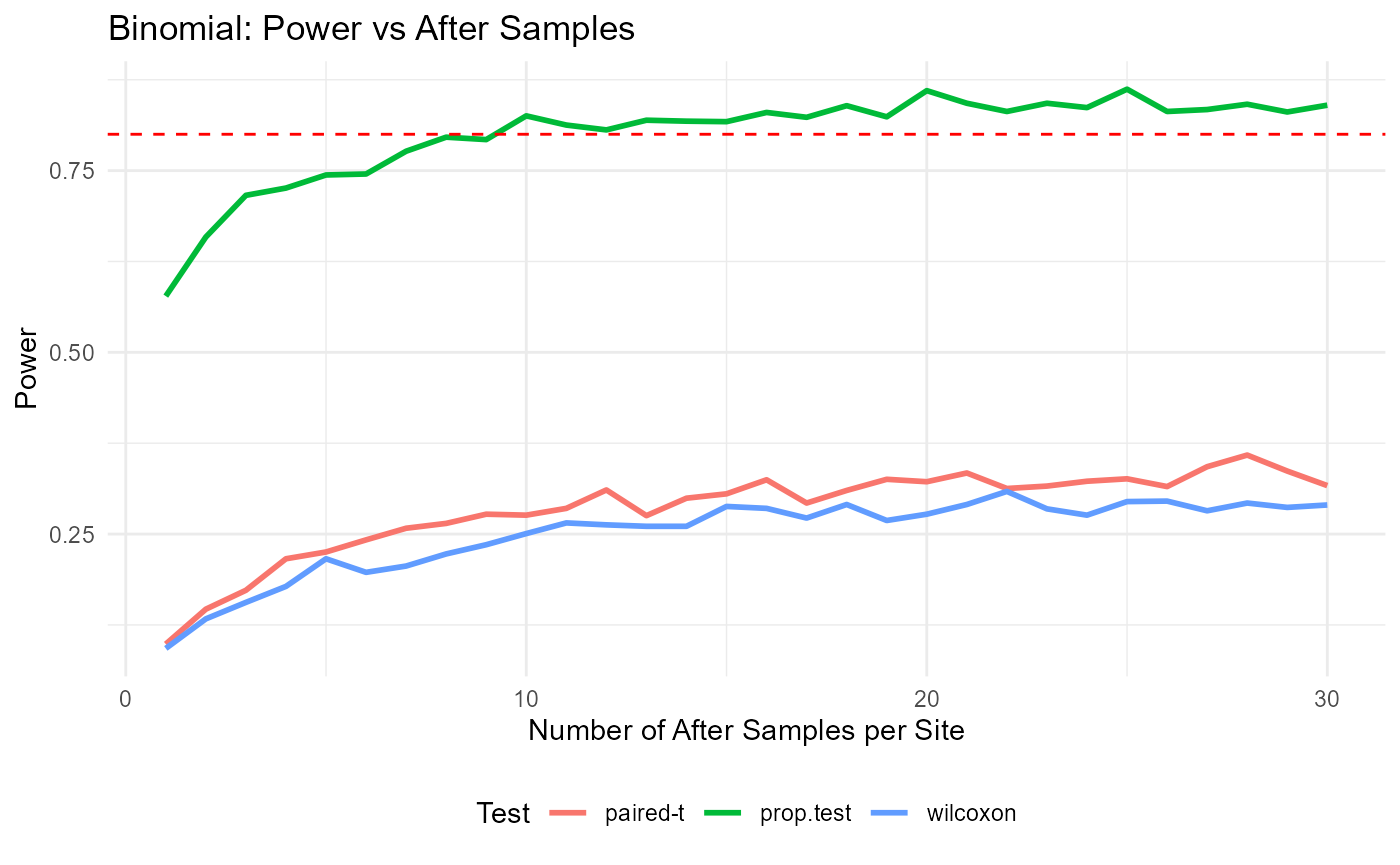
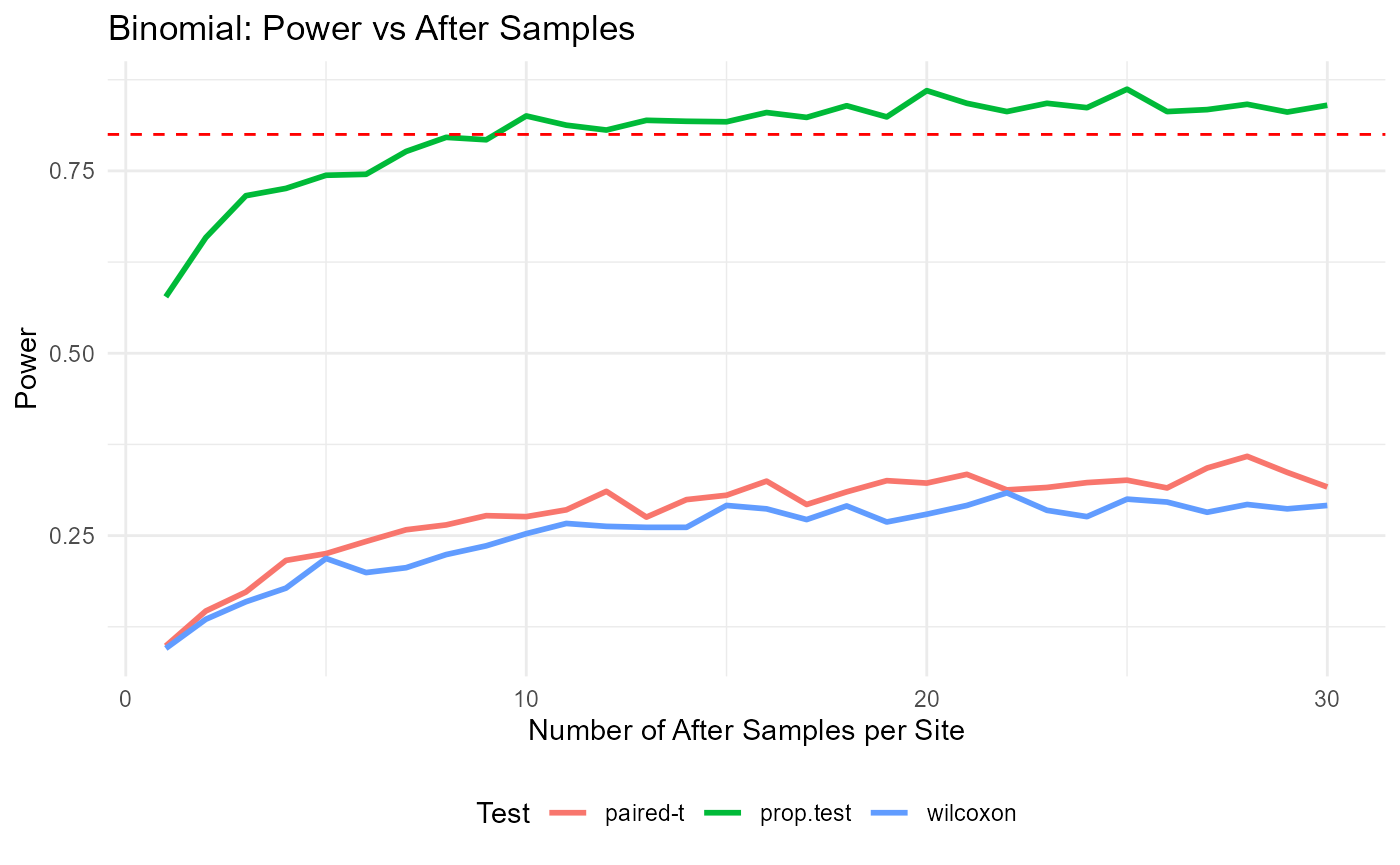
update docs

diff --git a/docs/articles/NonNormalDistributionsAndTests.html b/docs/articles/NonNormalDistributionsAndTests.html
@@ -61,7 +61,7 @@
                         <h4 data-toc-skip class="author">Beth
 Babcock</h4>
             
-            <h4 data-toc-skip class="date">2026-04-06</h4>
+            <h4 data-toc-skip class="date">2026-05-14</h4>
       
 
       <div class="d-none name"><code>NonNormalDistributionsAndTests.rmd</code></div>
@@ -121,7 +121,7 @@ supported distributions (<code>normal</code>, <code>nbinom</code>,
 <span><span class="op">)</span></span>
 <span></span>
 <span><span class="fu"><a href="https://ggplot2.tidyverse.org/reference/ggplot.html" class="external-link">ggplot</a></span><span class="op">(</span><span class="va">normal_plot_df</span>, <span class="fu"><a href="https://ggplot2.tidyverse.org/reference/aes.html" class="external-link">aes</a></span><span class="op">(</span>x <span class="op">=</span> <span class="va">n_after</span>, y <span class="op">=</span> <span class="va">power</span>, color <span class="op">=</span> <span class="va">method</span><span class="op">)</span><span class="op">)</span> <span class="op">+</span></span>
-<span>  <span class="fu"><a href="https://ggplot2.tidyverse.org/reference/geom_path.html" class="external-link">geom_line</a></span><span class="op">(</span>size <span class="op">=</span> <span class="fl">1</span><span class="op">)</span> <span class="op">+</span></span>
+<span>  <span class="fu"><a href="https://ggplot2.tidyverse.org/reference/geom_path.html" class="external-link">geom_line</a></span><span class="op">(</span>linewidth <span class="op">=</span> <span class="fl">1</span><span class="op">)</span> <span class="op">+</span></span>
 <span>  <span class="fu"><a href="https://ggplot2.tidyverse.org/reference/geom_abline.html" class="external-link">geom_hline</a></span><span class="op">(</span>yintercept <span class="op">=</span> <span class="fl">0.8</span>, linetype <span class="op">=</span> <span class="st">"dashed"</span>, color <span class="op">=</span> <span class="st">"red"</span><span class="op">)</span> <span class="op">+</span></span>
 <span>  <span class="fu"><a href="https://ggplot2.tidyverse.org/reference/labs.html" class="external-link">labs</a></span><span class="op">(</span></span>
 <span>    title <span class="op">=</span> <span class="st">"Normal: Power vs After Samples"</span>,</span>
@@ -162,13 +162,27 @@ supported distributions (<code>normal</code>, <code>nbinom</code>,
 <span>  nbinom_disp <span class="op">=</span> <span class="va">nbinom_disp</span></span>
 <span><span class="op">)</span></span>
 <span></span>
+<span><span class="co">#This is a test based on GLMM. It is slow so use few sims</span></span>
+<span><span class="va">res_nb_g</span> <span class="op">&lt;-</span> <span class="fu"><a href="../reference/find_n_after.html">find_n_after</a></span><span class="op">(</span></span>
+<span>  S <span class="op">=</span> <span class="va">S_demo</span>, nB <span class="op">=</span> <span class="va">nB_demo</span>,</span>
+<span>  delta <span class="op">=</span> <span class="va">delta_target_nb</span>, sd_w <span class="op">=</span> <span class="va">sd_w</span>, sd_d <span class="op">=</span> <span class="va">sd_d</span>,</span>
+<span>  target_power <span class="op">=</span> <span class="fl">0.8</span>, alpha <span class="op">=</span> <span class="va">alpha</span>, n_grid <span class="op">=</span> <span class="va">n_grid</span>,</span>
+<span>  nsim <span class="op">=</span> <span class="fl">100</span>, seed <span class="op">=</span> <span class="fl">4</span>,</span>
+<span>  distribution <span class="op">=</span> <span class="st">"nbinom"</span>,</span>
+<span>  useTest <span class="op">=</span> <span class="st">"GLMM-NB"</span>,</span>
+<span>  nbinom_mu <span class="op">=</span> <span class="va">nbinom_mu</span>,</span>
+<span>  nbinom_disp <span class="op">=</span> <span class="va">nbinom_disp</span></span>
+<span><span class="op">)</span></span>
+<span></span>
+<span></span>
 <span><span class="va">nb_plot_df</span> <span class="op">&lt;-</span> <span class="fu"><a href="https://dplyr.tidyverse.org/reference/bind_rows.html" class="external-link">bind_rows</a></span><span class="op">(</span></span>
 <span>  <span class="va">res_nb_t</span><span class="op">$</span><span class="va">curve</span> <span class="op"><a href="https://magrittr.tidyverse.org/reference/pipe.html" class="external-link">%&gt;%</a></span> <span class="fu"><a href="https://dplyr.tidyverse.org/reference/mutate.html" class="external-link">mutate</a></span><span class="op">(</span>method <span class="op">=</span> <span class="st">"paired-t"</span><span class="op">)</span>,</span>
-<span>  <span class="va">res_nb_w</span><span class="op">$</span><span class="va">curve</span> <span class="op"><a href="https://magrittr.tidyverse.org/reference/pipe.html" class="external-link">%&gt;%</a></span> <span class="fu"><a href="https://dplyr.tidyverse.org/reference/mutate.html" class="external-link">mutate</a></span><span class="op">(</span>method <span class="op">=</span> <span class="st">"wilcoxon"</span><span class="op">)</span></span>
+<span>  <span class="va">res_nb_w</span><span class="op">$</span><span class="va">curve</span> <span class="op"><a href="https://magrittr.tidyverse.org/reference/pipe.html" class="external-link">%&gt;%</a></span> <span class="fu"><a href="https://dplyr.tidyverse.org/reference/mutate.html" class="external-link">mutate</a></span><span class="op">(</span>method <span class="op">=</span> <span class="st">"wilcoxon"</span><span class="op">)</span>,</span>
+<span>  <span class="va">res_nb_g</span><span class="op">$</span><span class="va">curve</span> <span class="op"><a href="https://magrittr.tidyverse.org/reference/pipe.html" class="external-link">%&gt;%</a></span> <span class="fu"><a href="https://dplyr.tidyverse.org/reference/mutate.html" class="external-link">mutate</a></span><span class="op">(</span>method <span class="op">=</span> <span class="st">"GLMM-NB"</span><span class="op">)</span></span>
 <span><span class="op">)</span></span>
 <span></span>
 <span><span class="fu"><a href="https://ggplot2.tidyverse.org/reference/ggplot.html" class="external-link">ggplot</a></span><span class="op">(</span><span class="va">nb_plot_df</span>, <span class="fu"><a href="https://ggplot2.tidyverse.org/reference/aes.html" class="external-link">aes</a></span><span class="op">(</span>x <span class="op">=</span> <span class="va">n_after</span>, y <span class="op">=</span> <span class="va">power</span>, color <span class="op">=</span> <span class="va">method</span><span class="op">)</span><span class="op">)</span> <span class="op">+</span></span>
-<span>  <span class="fu"><a href="https://ggplot2.tidyverse.org/reference/geom_path.html" class="external-link">geom_line</a></span><span class="op">(</span>size <span class="op">=</span> <span class="fl">1</span><span class="op">)</span> <span class="op">+</span></span>
+<span>  <span class="fu"><a href="https://ggplot2.tidyverse.org/reference/geom_path.html" class="external-link">geom_line</a></span><span class="op">(</span>linewidth <span class="op">=</span> <span class="fl">1</span><span class="op">)</span> <span class="op">+</span></span>
 <span>  <span class="fu"><a href="https://ggplot2.tidyverse.org/reference/geom_abline.html" class="external-link">geom_hline</a></span><span class="op">(</span>yintercept <span class="op">=</span> <span class="fl">0.8</span>, linetype <span class="op">=</span> <span class="st">"dashed"</span>, color <span class="op">=</span> <span class="st">"red"</span><span class="op">)</span> <span class="op">+</span></span>
 <span>  <span class="fu"><a href="https://ggplot2.tidyverse.org/reference/labs.html" class="external-link">labs</a></span><span class="op">(</span></span>
 <span>    title <span class="op">=</span> <span class="st">"Negative Binomial: Power vs After Samples"</span>,</span>
@@ -227,7 +241,7 @@ supported distributions (<code>normal</code>, <code>nbinom</code>,
 <span><span class="op">)</span></span>
 <span></span>
 <span><span class="fu"><a href="https://ggplot2.tidyverse.org/reference/ggplot.html" class="external-link">ggplot</a></span><span class="op">(</span><span class="va">bin_plot_df</span>, <span class="fu"><a href="https://ggplot2.tidyverse.org/reference/aes.html" class="external-link">aes</a></span><span class="op">(</span>x <span class="op">=</span> <span class="va">n_after</span>, y <span class="op">=</span> <span class="va">power</span>, color <span class="op">=</span> <span class="va">method</span><span class="op">)</span><span class="op">)</span> <span class="op">+</span></span>
-<span>  <span class="fu"><a href="https://ggplot2.tidyverse.org/reference/geom_path.html" class="external-link">geom_line</a></span><span class="op">(</span>size <span class="op">=</span> <span class="fl">1</span><span class="op">)</span> <span class="op">+</span></span>
+<span>  <span class="fu"><a href="https://ggplot2.tidyverse.org/reference/geom_path.html" class="external-link">geom_line</a></span><span class="op">(</span>linewidth <span class="op">=</span> <span class="fl">1</span><span class="op">)</span> <span class="op">+</span></span>
 <span>  <span class="fu"><a href="https://ggplot2.tidyverse.org/reference/geom_abline.html" class="external-link">geom_hline</a></span><span class="op">(</span>yintercept <span class="op">=</span> <span class="fl">0.8</span>, linetype <span class="op">=</span> <span class="st">"dashed"</span>, color <span class="op">=</span> <span class="st">"red"</span><span class="op">)</span> <span class="op">+</span></span>
 <span>  <span class="fu"><a href="https://ggplot2.tidyverse.org/reference/labs.html" class="external-link">labs</a></span><span class="op">(</span></span>
 <span>    title <span class="op">=</span> <span class="st">"Binomial: Power vs After Samples"</span>,</span>

diff --git a/docs/reference/find_min_sites.html b/docs/reference/find_min_sites.html
@@ -1,7 +1,11 @@
 <!DOCTYPE html>
 <!-- Generated by pkgdown: do not edit by hand --><html lang="en"><head><meta http-equiv="Content-Type" content="text/html; charset=UTF-8"><meta charset="utf-8"><meta http-equiv="X-UA-Compatible" content="IE=edge"><meta name="viewport" content="width=device-width, initial-scale=1, shrink-to-fit=no"><title>find_min_sites — find_min_sites • PowerAfterChange</title><script src="../deps/jquery-3.6.0/jquery-3.6.0.min.js"></script><meta name="viewport" content="width=device-width, initial-scale=1, shrink-to-fit=no"><link href="../deps/bootstrap-5.3.1/bootstrap.min.css" rel="stylesheet"><script src="../deps/bootstrap-5.3.1/bootstrap.bundle.min.js"></script><link href="../deps/font-awesome-6.5.2/css/all.min.css" rel="stylesheet"><link href="../deps/font-awesome-6.5.2/css/v4-shims.min.css" rel="stylesheet"><script src="../deps/headroom-0.11.0/headroom.min.js"></script><script src="../deps/headroom-0.11.0/jQuery.headroom.min.js"></script><script src="../deps/bootstrap-toc-1.0.1/bootstrap-toc.min.js"></script><script src="../deps/clipboard.js-2.0.11/clipboard.min.js"></script><script src="../deps/search-1.0.0/autocomplete.jquery.min.js"></script><script src="../deps/search-1.0.0/fuse.min.js"></script><script src="../deps/search-1.0.0/mark.min.js"></script><!-- pkgdown --><script src="../pkgdown.js"></script><meta property="og:title" content="find_min_sites — find_min_sites"><meta name="description" content="Function to find the minimum number of sites needed to achieve target power from
-a paired t test on the means across observations at sites before and after a changepoint."><meta property="og:description" content="Function to find the minimum number of sites needed to achieve target power from
-a paired t test on the means across observations at sites before and after a changepoint."></head><body>
+a paired t test on the means across observations at sites before and after a changepoint,
+or equivalent Wilcoxon or proportion test for presence/absence data, or normal
+test on the before-after coefficient in a negative binomial GLMM."><meta property="og:description" content="Function to find the minimum number of sites needed to achieve target power from
+a paired t test on the means across observations at sites before and after a changepoint,
+or equivalent Wilcoxon or proportion test for presence/absence data, or normal
+test on the before-after coefficient in a negative binomial GLMM."></head><body>
     <a href="#main" class="visually-hidden-focusable">Skip to contents</a>
 
 
@@ -42,7 +46,9 @@ a paired t test on the means across observations at sites before and after a cha
 
     <div class="ref-description section level2">
     <p>Function to find the minimum number of sites needed to achieve target power from
-a paired t test on the means across observations at sites before and after a changepoint.</p>
+a paired t test on the means across observations at sites before and after a changepoint,
+or equivalent Wilcoxon or proportion test for presence/absence data, or normal
+test on the before-after coefficient in a negative binomial GLMM.</p>
     </div>
 
     <div class="section level2">
@@ -59,7 +65,7 @@ a paired t test on the means across observations at sites before and after a cha
 <span>  nsim <span class="op">=</span> <span class="fl">2000</span>,</span>
 <span>  seed <span class="op">=</span> <span class="fl">1</span>,</span>
 <span>  distribution <span class="op">=</span> <span class="fu"><a href="https://rdrr.io/r/base/c.html" class="external-link">c</a></span><span class="op">(</span><span class="st">"normal"</span>, <span class="st">"nbinom"</span>, <span class="st">"binomial"</span><span class="op">)</span>,</span>
-<span>  useTest <span class="op">=</span> <span class="fu"><a href="https://rdrr.io/r/base/c.html" class="external-link">c</a></span><span class="op">(</span><span class="st">"paired-t"</span>, <span class="st">"wilcoxon"</span>, <span class="st">"prop.test"</span><span class="op">)</span>,</span>
+<span>  useTest <span class="op">=</span> <span class="fu"><a href="https://rdrr.io/r/base/c.html" class="external-link">c</a></span><span class="op">(</span><span class="st">"paired-t"</span>, <span class="st">"wilcoxon"</span>, <span class="st">"prop.test"</span>, <span class="st">"GLMM-NB"</span><span class="op">)</span>,</span>
 <span>  nbinom_mu <span class="op">=</span> <span class="cn">NULL</span>,</span>
 <span>  nbinom_disp <span class="op">=</span> <span class="cn">NULL</span>,</span>
 <span>  binomial_size <span class="op">=</span> <span class="cn">NULL</span>,</span>
@@ -117,7 +123,7 @@ a paired t test on the means across observations at sites before and after a cha
 
 
 <dt id="arg-usetest">useTest<a class="anchor" aria-label="anchor" href="#arg-usetest"></a></dt>
-<dd><p>Which test to use. One of "paired-t", "wilcoxon", or "prop.test".</p></dd>
+<dd><p>Which test to use. One of "paired-t", "wilcoxon", "prop.test", "GLMM-NB".</p></dd>
 
 
 <dt id="arg-nbinom-mu">nbinom_mu<a class="anchor" aria-label="anchor" href="#arg-nbinom-mu"></a></dt>

diff --git a/docs/reference/power_for_n_after.html b/docs/reference/power_for_n_after.html
@@ -1,7 +1,13 @@
 <!DOCTYPE html>
 <!-- Generated by pkgdown: do not edit by hand --><html lang="en"><head><meta http-equiv="Content-Type" content="text/html; charset=UTF-8"><meta charset="utf-8"><meta http-equiv="X-UA-Compatible" content="IE=edge"><meta name="viewport" content="width=device-width, initial-scale=1, shrink-to-fit=no"><title>power_for_n_after — power_for_n_after • PowerAfterChange</title><script src="../deps/jquery-3.6.0/jquery-3.6.0.min.js"></script><meta name="viewport" content="width=device-width, initial-scale=1, shrink-to-fit=no"><link href="../deps/bootstrap-5.3.1/bootstrap.min.css" rel="stylesheet"><script src="../deps/bootstrap-5.3.1/bootstrap.bundle.min.js"></script><link href="../deps/font-awesome-6.5.2/css/all.min.css" rel="stylesheet"><link href="../deps/font-awesome-6.5.2/css/v4-shims.min.css" rel="stylesheet"><script src="../deps/headroom-0.11.0/headroom.min.js"></script><script src="../deps/headroom-0.11.0/jQuery.headroom.min.js"></script><script src="../deps/bootstrap-toc-1.0.1/bootstrap-toc.min.js"></script><script src="../deps/clipboard.js-2.0.11/clipboard.min.js"></script><script src="../deps/search-1.0.0/autocomplete.jquery.min.js"></script><script src="../deps/search-1.0.0/fuse.min.js"></script><script src="../deps/search-1.0.0/mark.min.js"></script><!-- pkgdown --><script src="../pkgdown.js"></script><meta property="og:title" content="power_for_n_after — power_for_n_after"><meta name="description" content="Estimate power for a paired t-test on the average of a given number of
-measurements at a fixed number of sites before and after a changepoint."><meta property="og:description" content="Estimate power for a paired t-test on the average of a given number of
-measurements at a fixed number of sites before and after a changepoint."></head><body>
+measurements at a fixed number of sites before and after a changepoint,
+or for an equivalent wilcoxon, or a proportion test if the data are presence/
+absence, or a normal test on the coefficient of a negative binomial GLMM
+before-after coefficient."><meta property="og:description" content="Estimate power for a paired t-test on the average of a given number of
+measurements at a fixed number of sites before and after a changepoint,
+or for an equivalent wilcoxon, or a proportion test if the data are presence/
+absence, or a normal test on the coefficient of a negative binomial GLMM
+before-after coefficient."></head><body>
     <a href="#main" class="visually-hidden-focusable">Skip to contents</a>
 
 
@@ -42,7 +48,10 @@ measurements at a fixed number of sites before and after a changepoint."></head>
 
     <div class="ref-description section level2">
     <p>Estimate power for a paired t-test on the average of a given number of
-measurements at a fixed number of sites before and after a changepoint.</p>
+measurements at a fixed number of sites before and after a changepoint,
+or for an equivalent wilcoxon, or a proportion test if the data are presence/
+absence, or a normal test on the coefficient of a negative binomial GLMM
+before-after coefficient.</p>
     </div>
 
     <div class="section level2">
@@ -58,7 +67,7 @@ measurements at a fixed number of sites before and after a changepoint.</p>
 <span>  nsim <span class="op">=</span> <span class="fl">2000</span>,</span>
 <span>  seed <span class="op">=</span> <span class="fl">1</span>,</span>
 <span>  distribution <span class="op">=</span> <span class="fu"><a href="https://rdrr.io/r/base/c.html" class="external-link">c</a></span><span class="op">(</span><span class="st">"normal"</span>, <span class="st">"nbinom"</span>, <span class="st">"binomial"</span><span class="op">)</span>,</span>
-<span>  useTest <span class="op">=</span> <span class="fu"><a href="https://rdrr.io/r/base/c.html" class="external-link">c</a></span><span class="op">(</span><span class="st">"paired-t"</span>, <span class="st">"wilcoxon"</span>, <span class="st">"prop.test"</span><span class="op">)</span>,</span>
+<span>  useTest <span class="op">=</span> <span class="fu"><a href="https://rdrr.io/r/base/c.html" class="external-link">c</a></span><span class="op">(</span><span class="st">"paired-t"</span>, <span class="st">"wilcoxon"</span>, <span class="st">"prop.test"</span>, <span class="st">"GLMM-NB"</span><span class="op">)</span>,</span>
 <span>  nbinom_mu <span class="op">=</span> <span class="cn">NULL</span>,</span>
 <span>  nbinom_disp <span class="op">=</span> <span class="cn">NULL</span>,</span>
 <span>  binomial_size <span class="op">=</span> <span class="cn">NULL</span>,</span>
@@ -112,7 +121,7 @@ measurements at a fixed number of sites before and after a changepoint.</p>
 
 
 <dt id="arg-usetest">useTest<a class="anchor" aria-label="anchor" href="#arg-usetest"></a></dt>
-<dd><p>Which test to use. One of "paired-t", "wilcoxon", or "prop.test".</p></dd>
+<dd><p>Which test to use. One of "paired-t", "wilcoxon", "prop.test", or ,"GLMM-NB2".</p></dd>
 
 
 <dt id="arg-nbinom-mu">nbinom_mu<a class="anchor" aria-label="anchor" href="#arg-nbinom-mu"></a></dt>

diff --git a/docs/articles/Sqrt transform.html b/docs/articles/Sqrt transform.html
@@ -61,7 +61,7 @@
                         <h4 data-toc-skip class="author">Beth
 Babcock</h4>
             
-            <h4 data-toc-skip class="date">2026-04-06</h4>
+            <h4 data-toc-skip class="date">2026-05-14</h4>
       
 
       <div class="d-none name"><code>Sqrt transform.Rmd</code></div>
@@ -103,27 +103,12 @@ Babcock</h4>
 <span>  typeTransform <span class="op">=</span> <span class="st">"sqrt"</span>,</span>
 <span>  addValue <span class="op">=</span> <span class="fl">0.5</span></span>
 <span><span class="op">)</span></span></code></pre></div>
-<pre><code><span><span class="co">## Warning: There were 2 warnings in `mutate()`.</span></span>
-<span><span class="co">## The first warning was:</span></span>
-<span><span class="co">## <span style="color: #00BBBB;">ℹ</span> In argument: `grand_asinmean = if_else(asinTransform, mean(asin(sqrt(y))),</span></span>
-<span><span class="co">##   NA_real_)`.</span></span>
-<span><span class="co">## Caused by warning in `asin()`:</span></span>
-<span><span class="co">## <span style="color: #BBBB00;">!</span> NaNs produced</span></span>
-<span><span class="co">## <span style="color: #00BBBB;">ℹ</span> Run `dplyr::last_dplyr_warnings()` to see the 1 remaining warning.</span></span></code></pre>
-<pre><code><span><span class="co">## Warning: There were 24 warnings in `summarize()`.</span></span>
-<span><span class="co">## The first warning was:</span></span>
-<span><span class="co">## <span style="color: #00BBBB;">ℹ</span> In argument: `site_asinmean = if_else(asinTransform, mean(asin(sqrt(y))),</span></span>
-<span><span class="co">##   NA_real_)`.</span></span>
-<span><span class="co">## <span style="color: #00BBBB;">ℹ</span> In group 1: `site = 1`.</span></span>
-<span><span class="co">## Caused by warning in `asin()`:</span></span>
-<span><span class="co">## <span style="color: #BBBB00;">!</span> NaNs produced</span></span>
-<span><span class="co">## <span style="color: #00BBBB;">ℹ</span> Run `dplyr::last_dplyr_warnings()` to see the 23 remaining warnings.</span></span></code></pre>
 <p>Extract inputs</p>
-<div class="sourceCode" id="cb6"><pre class="downlit sourceCode r">
+<div class="sourceCode" id="cb4"><pre class="downlit sourceCode r">
 <code class="sourceCode R"><span><span class="va">baseline_mean</span> <span class="op">&lt;-</span> <span class="va">base_summary</span><span class="op">$</span><span class="va">grand_mean</span></span>
 <span><span class="va">sd_within_sqrt</span> <span class="op">&lt;-</span> <span class="va">base_summary</span><span class="op">$</span><span class="va">sqrtsd_within</span></span></code></pre></div>
 <p>Compute power for a 30% change</p>
-<div class="sourceCode" id="cb7"><pre class="downlit sourceCode r">
+<div class="sourceCode" id="cb5"><pre class="downlit sourceCode r">
 <code class="sourceCode R"><span><span class="va">power_30pct</span> <span class="op">&lt;-</span> <span class="fu"><a href="../reference/power_for_percent_change.html">power_for_percent_change</a></span><span class="op">(</span></span>
 <span>  percent_change <span class="op">=</span> <span class="fl">30</span>,</span>
 <span>  baseline_mean <span class="op">=</span> <span class="va">baseline_mean</span>,</span>

diff --git a/docs/reference/find_n_after.html b/docs/reference/find_n_after.html
@@ -59,7 +59,7 @@ power, for a paired t-test on the before and after means.</p>
 <span>  nsim <span class="op">=</span> <span class="fl">2000</span>,</span>
 <span>  seed <span class="op">=</span> <span class="fl">1</span>,</span>
 <span>  distribution <span class="op">=</span> <span class="fu"><a href="https://rdrr.io/r/base/c.html" class="external-link">c</a></span><span class="op">(</span><span class="st">"normal"</span>, <span class="st">"nbinom"</span>, <span class="st">"binomial"</span><span class="op">)</span>,</span>
-<span>  useTest <span class="op">=</span> <span class="fu"><a href="https://rdrr.io/r/base/c.html" class="external-link">c</a></span><span class="op">(</span><span class="st">"paired-t"</span>, <span class="st">"wilcoxon"</span>, <span class="st">"prop.test"</span><span class="op">)</span>,</span>
+<span>  useTest <span class="op">=</span> <span class="fu"><a href="https://rdrr.io/r/base/c.html" class="external-link">c</a></span><span class="op">(</span><span class="st">"paired-t"</span>, <span class="st">"wilcoxon"</span>, <span class="st">"prop.test"</span>, <span class="st">"GLMM-NB"</span><span class="op">)</span>,</span>
 <span>  nbinom_mu <span class="op">=</span> <span class="cn">NULL</span>,</span>
 <span>  nbinom_disp <span class="op">=</span> <span class="cn">NULL</span>,</span>
 <span>  binomial_size <span class="op">=</span> <span class="cn">NULL</span>,</span>
@@ -117,7 +117,7 @@ power, for a paired t-test on the before and after means.</p>
 
 
 <dt id="arg-usetest">useTest<a class="anchor" aria-label="anchor" href="#arg-usetest"></a></dt>
-<dd><p>Which test to use. One of "paired-t", "wilcoxon", or "prop.test".</p></dd>
+<dd><p>Which test to use. One of "paired-t", "wilcoxon", "prop.test", "GLMM_NB".</p></dd>
 
 
 <dt id="arg-nbinom-mu">nbinom_mu<a class="anchor" aria-label="anchor" href="#arg-nbinom-mu"></a></dt>

diff --git a/docs/reference/power_for_sites.html b/docs/reference/power_for_sites.html
@@ -112,7 +112,7 @@ of sites before and after a changepoint.</p>
 
 
 <dt id="arg-usetest">useTest<a class="anchor" aria-label="anchor" href="#arg-usetest"></a></dt>
-<dd><p>Which test to use. One of "paired-t", "wilcoxon", or "prop.test".</p></dd>
+<dd><p>Which test to use. One of "paired-t", "wilcoxon",  "prop.test", or "GLMM-NB".</p></dd>
 
 
 <dt id="arg-nbinom-mu">nbinom_mu<a class="anchor" aria-label="anchor" href="#arg-nbinom-mu"></a></dt>

diff --git a/docs/articles/TwoSampleTTest.html b/docs/articles/TwoSampleTTest.html
@@ -61,7 +61,7 @@
                         <h4 data-toc-skip class="author">Beth
 Babcock</h4>
             
-            <h4 data-toc-skip class="date">2026-04-06</h4>
+            <h4 data-toc-skip class="date">2026-05-14</h4>
       
 
       <div class="d-none name"><code>TwoSampleTTest.Rmd</code></div>
